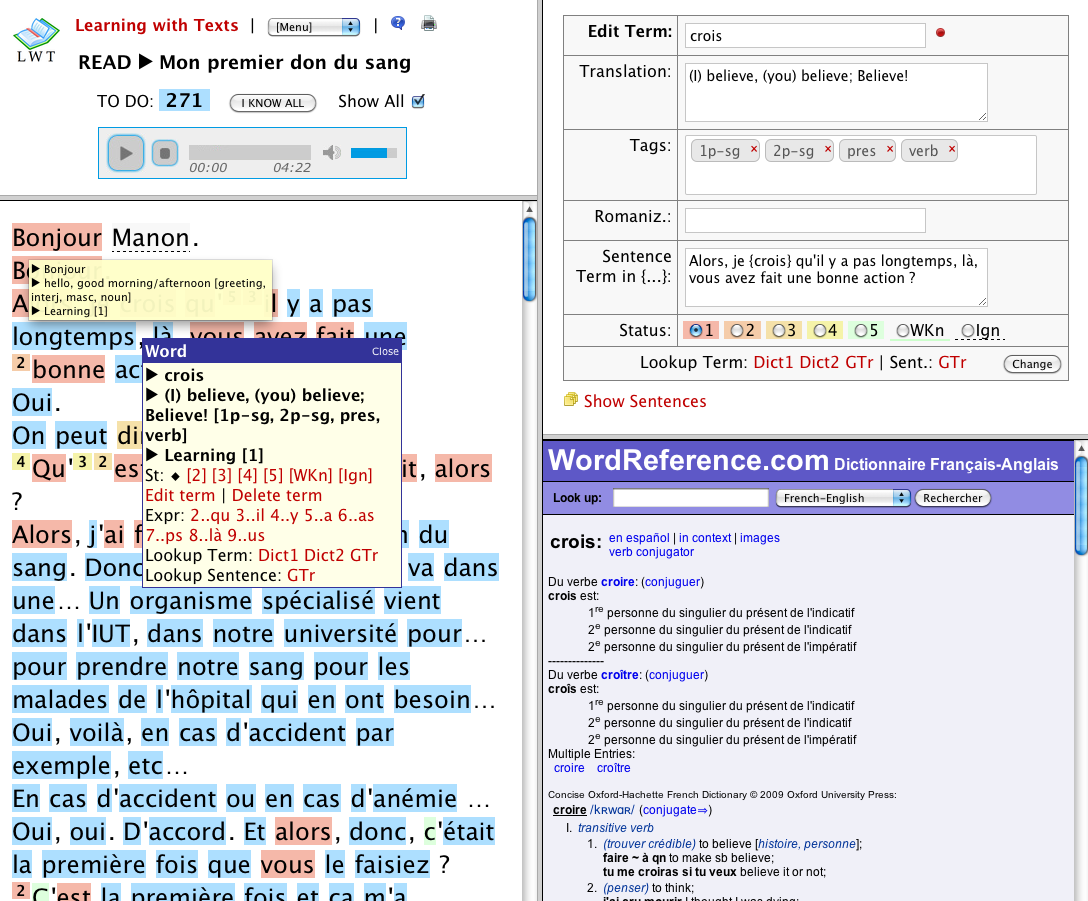
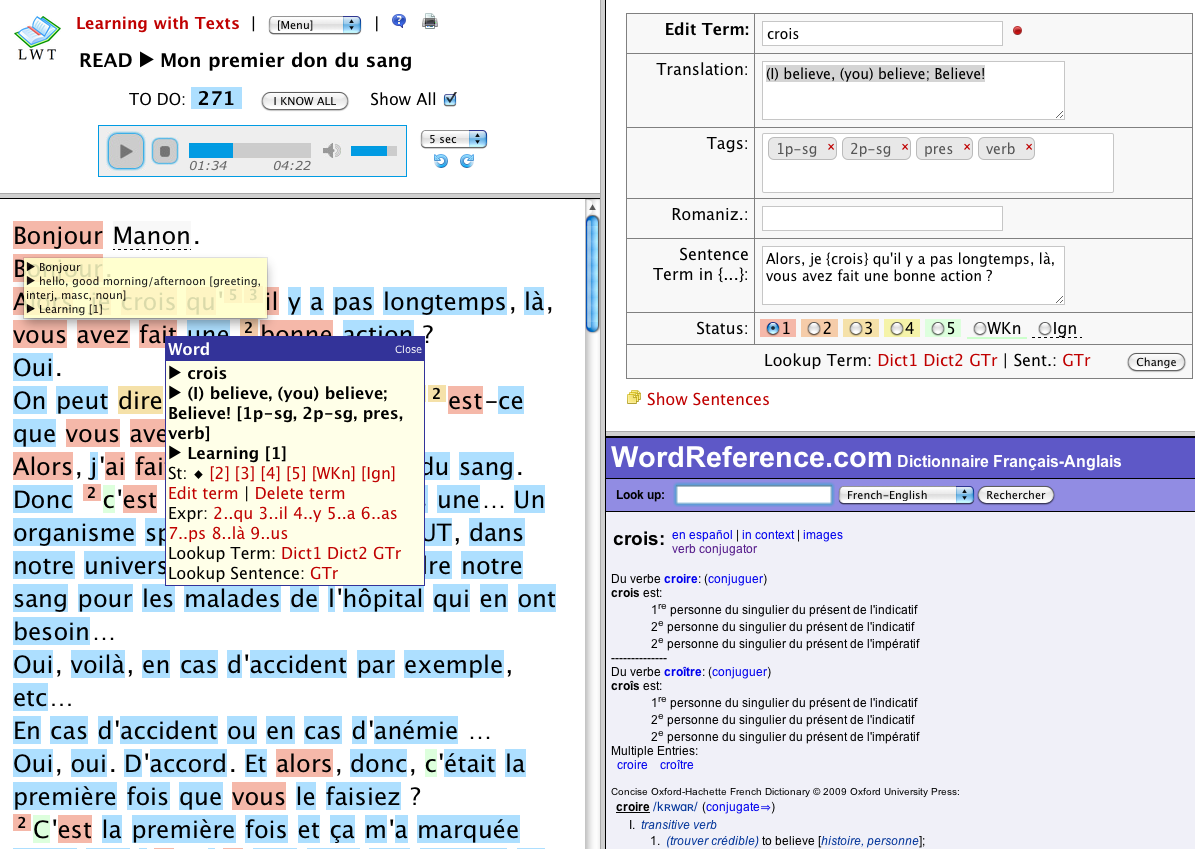
Version 1.2.1 (FINAL)

diff --git a/info.htm b/info.htm
@@ -54,6 +54,7 @@ LWT Information / Help
 		<a href="#learn">How to learn</a><br /><br />
 		<a href="#howto">How to use</a><br /><br />
 		<a href="#faq">Q &amp; A</a><br /> 
+		<a href="#ipad">Setup for iPad</a><br /> 
 		<a href="#langsetup">Lang. Setup</a><br />
 		<a href="#termscores">Term Scores</a><br />
 		<a href="#keybind">Key Bindings</a><br /><br />
@@ -136,6 +137,9 @@ $(document).ready( function() {
         <option value="faq">
           Questions and Answers
         </option>
+        <option value="ipad">
+          Setup for iPad etc.
+        </option>
         <option value="langsetup">
           Language Setup
         </option>
@@ -188,7 +192,7 @@ $(document).ready( function() {
 
       <dd>
         <ul>
-          <li>The current version is <b>1.2.1 (August ?? 2011)</b>.
+          <li>The current version is <b>1.2.1 (August 25 2011)</b>.
           </li>
 
           <li>
@@ -1421,19 +1425,32 @@ Another example: The URI to query "travailler" in sansagent is "http://dictionar
             <br />
           </li>
 
-          <li>I want to use LWT, and I see this:
-            <br />
-            <br />
-            <img class="grayborder" src="img/prob5.png" alt="Image" />
-            <br />
-            <br />
-            Answer: The Webserver and the database is running, but the database does not exist or is its name is wrong in <i>../htdocs/lwt/connect.inc.php</i>. Please correct and/or reinstall the database either by importing <i>dbinstall.sql</i> or a backup.
-            <br />
-            <br />
-          </li>
         </ul>
       </dd>
 
+      <dt>
+        ▶ <b><a name="ipad" id="ipad">Setup for iPad etc.</a></b> - <a href="#">[↑]</a>
+      </dt>
+
+      <dd>
+        <ul>
+          <li>If you want to use LWT on an iPad: that's possible (even the audio player works). But as frames and frame sets are poorly implemented by Apple in Mobile Safari, you should change a few things:
+          <ul>
+          <li>In "Settings/Preferences", set (in both "Read Text
+Screen" section and in "Test
+Screen" section) "Height of right top frame" to 95 %.</li>
+          <li>Also adjust "Height of left top frame
+without audioplayer" and 	"Height of left top frame
+with audioplayer", if needed.</li>
+          <li>Now change the URIs in your language settings: put an asterisk "*" in front of all three dictionary URIs. This opens the dictionaries in seperate windows. Switch off  pop up blocking if the dictionaries will not show up.</li>
+          <li>Try to reduce the lengths of your texts to reduce scrolling.</li>
+          <li>It's also a good idea to install and run LWT at a web hoster, as explained above. So you can access LWT easily if you are often on the go.</li>
+          </ul>
+          <li>With these settings, I hope you will enjoy using LWT on a tablet computer although creating new terms and copy &amp; paste can be a bit tedious.
+          <br /><br /></li>
+        </ul>
+      </dd>
+      
       <dt>
         ▶ <b><a name="langsetup" id="langsetup">Language Setup</a></b> - <a href="#">[↑]</a>
       </dt>
@@ -1944,8 +1961,9 @@ Another example: The URI to query "travailler" in sansagent is "http://dictionar
       <dd>
         <ul>
 
-        	<li>1.2.1 (August ?? 2011):
-        	New Rewind and Fast Forward button for audio player. User can set the time to rewind or fast forward from 1 to 10 seconds.
+        	<li>1.2.1 (August 25 2011):
+        	New Rewind and Fast Forward button for audio player. User can set the time to rewind or fast forward from 1 to 10 seconds.<br />
+        	Added a section in the help document about the setup of LWT for iPads, etc.
         	<br /><br />
         	</li>
 

diff --git a/utilities.inc.php b/utilities.inc.php
@@ -19,7 +19,7 @@ Plus (at end): Database Connect, .. Select, .. Update
 
 function get_version() {
 	global $debug;
-	return '1.2.1 (August ?? 2011)'  . 
+	return '1.2.1 (August 25 2011)'  . 
 	($debug ? ' <span class="red">DEBUG</span>' : '');
 }
 
